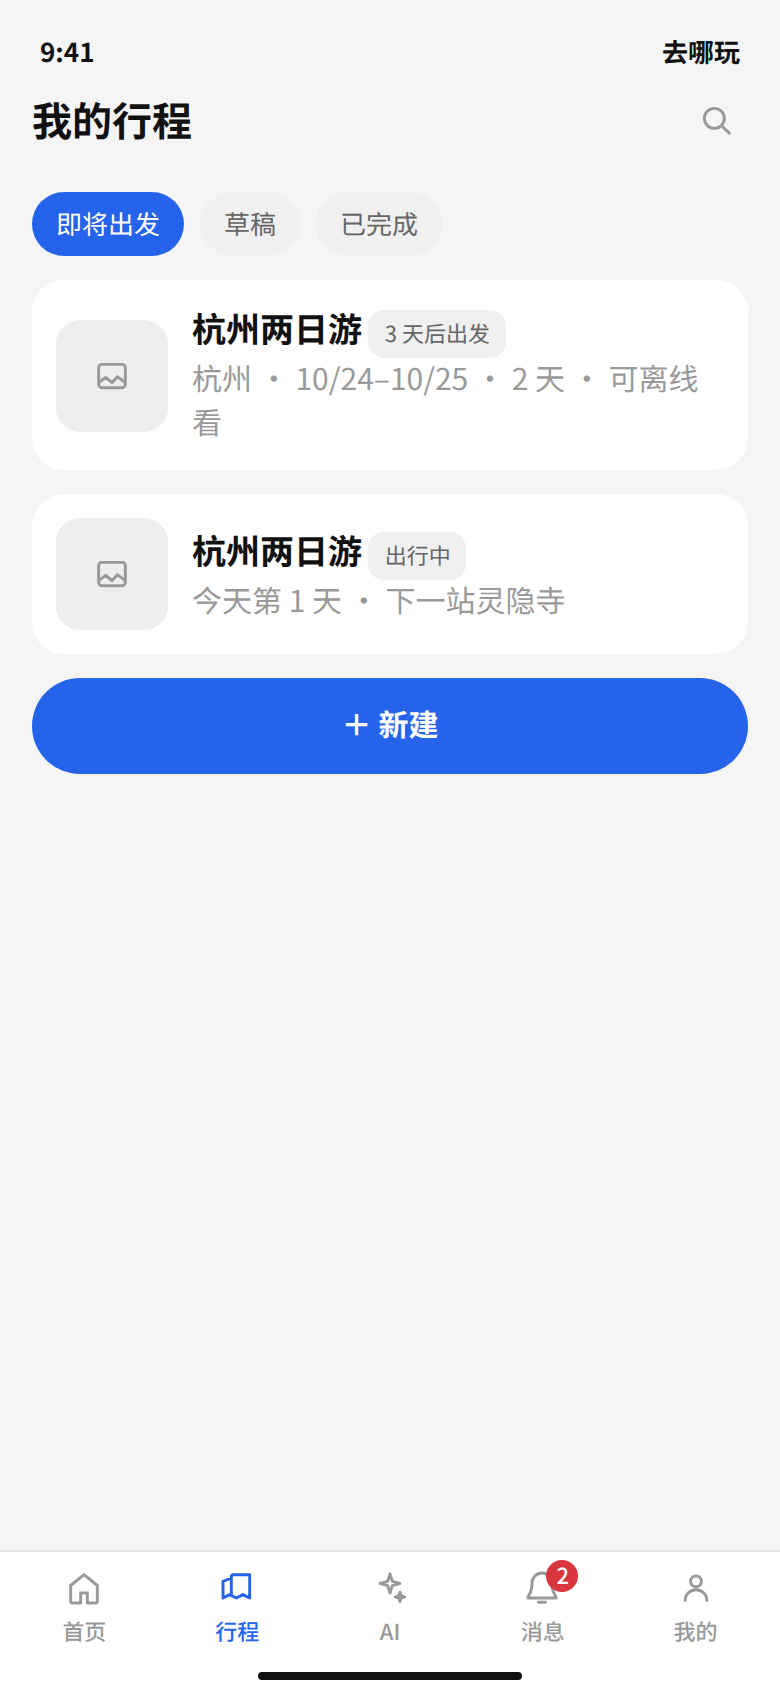
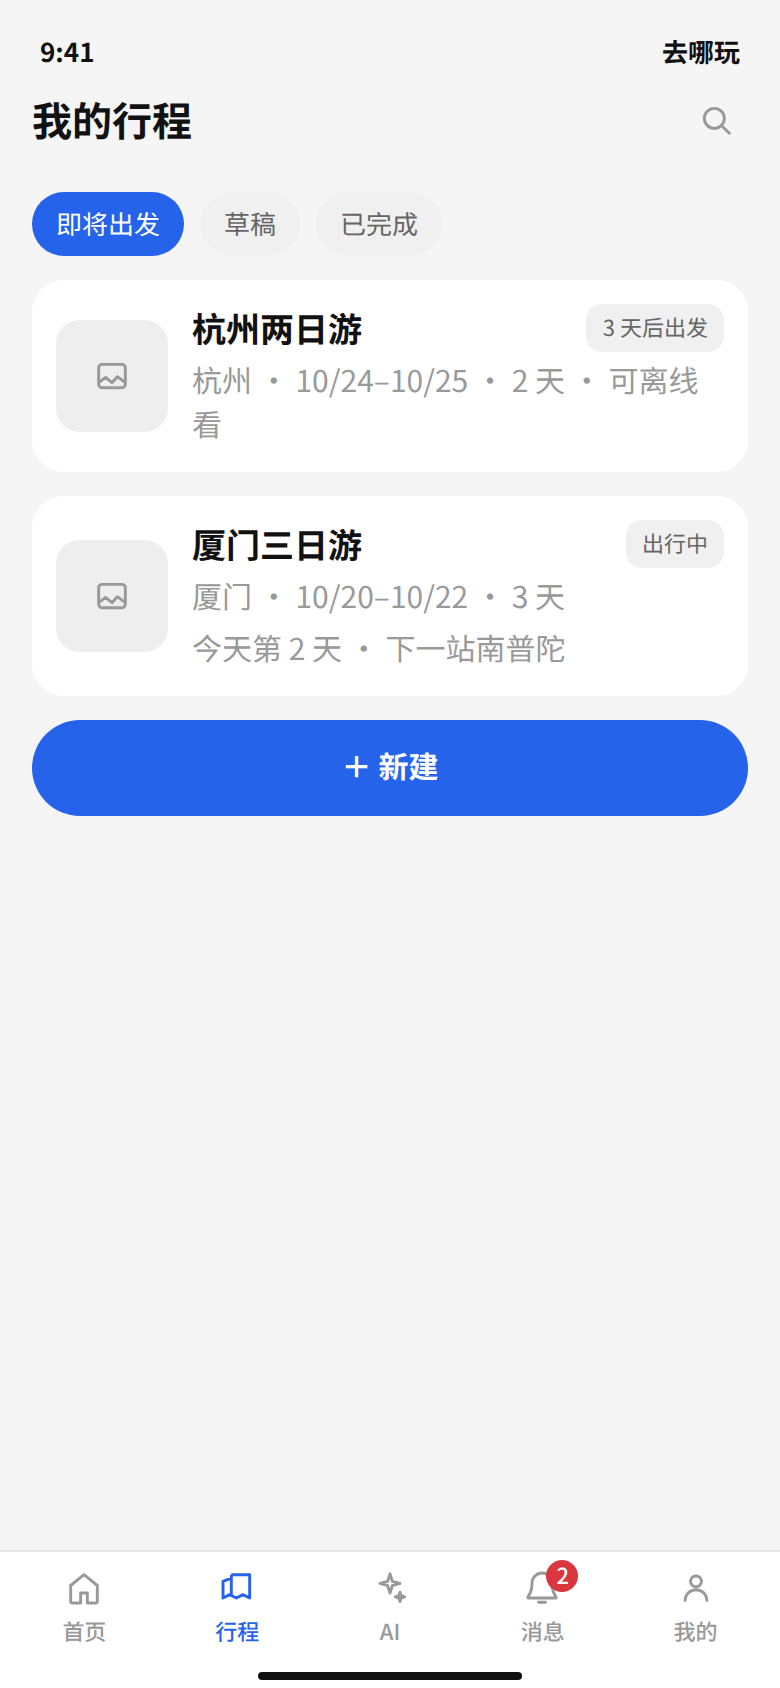
docs(design): split the upcoming list into two trips
杭州两日游 stays three days out, and 厦门三日游 is the trip already underway. Trip tags sit on the right of the title so they no longer collide.

diff --git a/docs/travel-planner/design/prototype/sample-data.js b/docs/travel-planner/design/prototype/sample-data.js
@@ -13,7 +13,10 @@
    第 1 天 1,130–1,530 + 第 2 天 320–460 + 往返 280–360 + 其他 50–100 = 合计
    酒店在湖滨。到各点：灵隐 7、楼外楼 3.8、白堤 3、河坊街 1.6、美院 3.1、
    游船码头 1（同在湖滨），平均 3.3 公里。
-   P06-e 去掉楼外楼后：7+6+3 = 16 公里，花费去掉午餐 240–360。 */
+   P06-e 去掉楼外楼后：7+6+3 = 16 公里，花费去掉午餐 240–360。
+   行程列表以 10/21 为今天（距 10/24 杭州还有 3 天）。
+   厦门 10/20–10/22 正在进行，今天是第 2 天，下一站南普陀。
+   成都草稿排在 11/6–11/9，避免和这两趟重叠。 */
 (function () {
   var data = {
     "trip.title": "杭州两日游",
@@ -80,7 +83,24 @@
     "xixi.ticket": "门票 ¥70–90 参考",
     "xixi.addr": "杭州市西湖区天目山路 518 号",
     "xixi.phone": "0571-88106696",
-    "xixi.reason": "从湖滨打车约 40 分钟、15 公里，适合单独排半天。"
+    "xixi.reason": "从湖滨打车约 40 分钟、15 公里，适合单独排半天。",
+    "hz.title": "杭州两日游",
+    "hz.status": "3 天后出发",
+    "hz.meta": "杭州 · 10/24–10/25 · 2 天 · 可离线看",
+    "xm.title": "厦门三日游",
+    "xm.status": "出行中",
+    "xm.when": "厦门 · 10/20–10/22 · 3 天",
+    "xm.next": "今天第 2 天 · 下一站南普陀",
+    "done.title": "杭州周末",
+    "done.status": "已完成",
+    "done.meta": "杭州 · 9/20–9/21 · 2 天",
+    "draft.title": "成都美食",
+    "draft.status": "草稿",
+    "draft.meta": "成都 · 11/6–11/9 · 4 天 · 还没保存",
+    "local.title": "杭州两日游",
+    "local.status": "本地草稿",
+    "local.meta": "未登录 · 10/24–10/25 · 2 天",
+    "profile.trips": "已规划 3 趟 · 去过 1 座城市"
   };
   window.QNW = data;
   function fill() {

diff --git a/docs/travel-planner/design/prototype/pages/P10-a-trips-upcoming.html b/docs/travel-planner/design/prototype/pages/P10-a-trips-upcoming.html
@@ -25,20 +25,25 @@
   </div>
   <a class="template" href="P05-a-detail-ongoing.html">
     <span class="template-media"><svg class="icon" aria-hidden="true"><use href="#i-image"/></svg></span>
-    <span>
-      <strong class="t-headline">杭州两日游</strong>
-      <span class="tag">3 天后出发</span><br>
-      <span class="dim">杭州 · 10/24–10/25 · 2 天 · 可离线看</span>
+    <span class="trip-copy">
+      <span class="trip-head">
+        <strong class="t-headline" data-qnw="hz.title">杭州两日游</strong>
+        <span class="tag" data-qnw="hz.status">3 天后出发</span>
+      </span>
+      <span class="dim" data-qnw="hz.meta">杭州 · 10/24–10/25 · 2 天 · 可离线看</span>
     </span>
   </a>
-  <a class="template" href="P02-b-home-ongoing.html">
+  <article class="template">
     <span class="template-media"><svg class="icon" aria-hidden="true"><use href="#i-image"/></svg></span>
-    <span>
-      <strong class="t-headline">杭州两日游</strong>
-      <span class="tag">出行中</span><br>
-      <span class="dim">今天第 1 天 · 下一站灵隐寺</span>
+    <span class="trip-copy">
+      <span class="trip-head">
+        <strong class="t-headline" data-qnw="xm.title">厦门三日游</strong>
+        <span class="tag" data-qnw="xm.status">出行中</span>
+      </span>
+      <span class="dim" data-qnw="xm.when">厦门 · 10/20–10/22 · 3 天</span>
+      <span class="dim" data-qnw="xm.next">今天第 2 天 · 下一站南普陀</span>
     </span>
-  </a>
+  </article>
   <a class="btn btn-primary" href="P03-a-chat-welcome.html">＋ 新建</a>
 </div>
 <div class="screen-foot">

diff --git a/docs/travel-planner/design/prototype/pages/P10-b-trips-draft.html b/docs/travel-planner/design/prototype/pages/P10-b-trips-draft.html
@@ -23,15 +23,17 @@
     <a class="chip is-selected" href="P10-b-trips-draft.html">草稿</a>
     <a class="chip" href="P10-c-trips-done.html">已完成</a>
   </div>
-  <a class="template" href="P04-a-preview.html">
+  <a class="template" href="P03-a-chat-welcome.html">
     <span class="template-media"><svg class="icon" aria-hidden="true"><use href="#i-image"/></svg></span>
-    <span>
-      <strong class="t-headline">杭州两日游</strong>
-      <span class="tag">草稿</span><br>
-      <span class="dim">还没保存 · 10/24–10/25 · 2 天</span>
+    <span class="trip-copy">
+      <span class="trip-head">
+        <strong class="t-headline" data-qnw="draft.title">成都美食</strong>
+        <span class="tag" data-qnw="draft.status">草稿</span>
+      </span>
+      <span class="dim" data-qnw="draft.meta">成都 · 11/6–11/9 · 4 天 · 还没保存</span>
     </span>
   </a>
-  <p class="dim">点进去继续看预览。左滑可以删除或复制。</p>
+  <p class="dim">还没保存。点进去可以继续问 AI。</p>
   <a class="btn btn-primary" href="P03-a-chat-welcome.html">＋ 新建</a>
 </div>
 <div class="screen-foot">

diff --git a/docs/travel-planner/design/prototype/pages/P10-e-trips-local.html b/docs/travel-planner/design/prototype/pages/P10-e-trips-local.html
@@ -24,10 +24,12 @@
   </div>
   <a class="template" href="P04-a-preview.html">
     <span class="template-media"><svg class="icon" aria-hidden="true"><use href="#i-image"/></svg></span>
-    <span>
-      <strong class="t-headline">杭州两日游</strong>
-      <span class="tag">本地草稿</span><br>
-      <span class="dim">未登录 · 10/24–10/25 · 2 天</span>
+    <span class="trip-copy">
+      <span class="trip-head">
+        <strong class="t-headline" data-qnw="local.title">杭州两日游</strong>
+        <span class="tag" data-qnw="local.status">本地草稿</span>
+      </span>
+      <span class="dim" data-qnw="local.meta">未登录 · 10/24–10/25 · 2 天</span>
     </span>
   </a>
   <a class="btn btn-primary" href="P13-a-login.html">登录</a>

diff --git a/docs/travel-planner/design/prototype/pages/P10-c-trips-done.html b/docs/travel-planner/design/prototype/pages/P10-c-trips-done.html
@@ -25,10 +25,12 @@
   </div>
   <a class="template" href="P14-a-share-link.html">
     <span class="template-media"><svg class="icon" aria-hidden="true"><use href="#i-image"/></svg></span>
-    <span>
-      <strong class="t-headline">杭州周末</strong>
-      <span class="tag">已完成</span><br>
-      <span class="dim">杭州 · 9/20–9/21 · 2 天</span>
+    <span class="trip-copy">
+      <span class="trip-head">
+        <strong class="t-headline" data-qnw="done.title">杭州周末</strong>
+        <span class="tag" data-qnw="done.status">已完成</span>
+      </span>
+      <span class="dim" data-qnw="done.meta">杭州 · 9/20–9/21 · 2 天</span>
     </span>
   </a>
 </div>

diff --git a/docs/travel-planner/design/prototype/components.css b/docs/travel-planner/design/prototype/components.css
@@ -1110,6 +1110,25 @@ button {
   color: var(--text-tertiary);
 }
 
+.trip-copy {
+  display: flex;
+  flex: 1;
+  flex-direction: column;
+  gap: var(--space-4);
+  min-width: 0;
+}
+
+.trip-head {
+  display: flex;
+  gap: var(--space-8);
+  align-items: center;
+  justify-content: space-between;
+}
+
+.trip-head .tag {
+  flex: none;
+}
+
 .count-num {
   margin: var(--space-4) 0;
   font-size: var(--font-display-size);

diff --git a/docs/travel-planner/design/prototype/pages/P12-a-profile.html b/docs/travel-planner/design/prototype/pages/P12-a-profile.html
@@ -21,7 +21,7 @@
     </div>
   </div>
   <section class="card">
-    <p class="t-caption">已规划 2 趟 · 去过 1 座城市</p>
+    <p class="t-caption" data-qnw="profile.trips">已规划 3 趟 · 去过 1 座城市</p>
   </section>
   <section class="card">
     <h2 class="t-headline">旅行偏好</h2>

diff --git a/docs/travel-planner/design/README.md b/docs/travel-planner/design/README.md
@@ -143,8 +143,8 @@ npm run shots
 | 4 | 地点 · 加载失败 | `pages/P08-g-poi-error.html` | 同名 png | 已交付 |
 | 4 | 预算 · 加载 | `pages/P09-d-budget-loading.html` | 同名 png | 已交付 |
 | 4 | 预算 · 加载失败 | `pages/P09-e-budget-error.html` | 同名 png | 已交付 |
-| 5 | 即将出发 | `pages/P10-a-trips-upcoming.html` | 同名 png | 已交付：3 天后出发，以及出行中 |
-| 5 | 草稿 | `pages/P10-b-trips-draft.html` | 同名 png | 已交付 |
+| 5 | 即将出发 | `pages/P10-a-trips-upcoming.html` | 同名 png | 已修订：杭州两日游与厦门三日游 |
+| 5 | 草稿 | `pages/P10-b-trips-draft.html` | 同名 png | 已修订：成都美食，避免和杭州重复 |
 | 5 | 已完成 | `pages/P10-c-trips-done.html` | 同名 png | 已交付：更早的杭州周末 |
 | 5 | 行程空状态 | `pages/P10-d-trips-empty.html` | 同名 png | 已交付 |
 | 5 | 未登录本地草稿 | `pages/P10-e-trips-local.html` | 同名 png | 已交付 |
